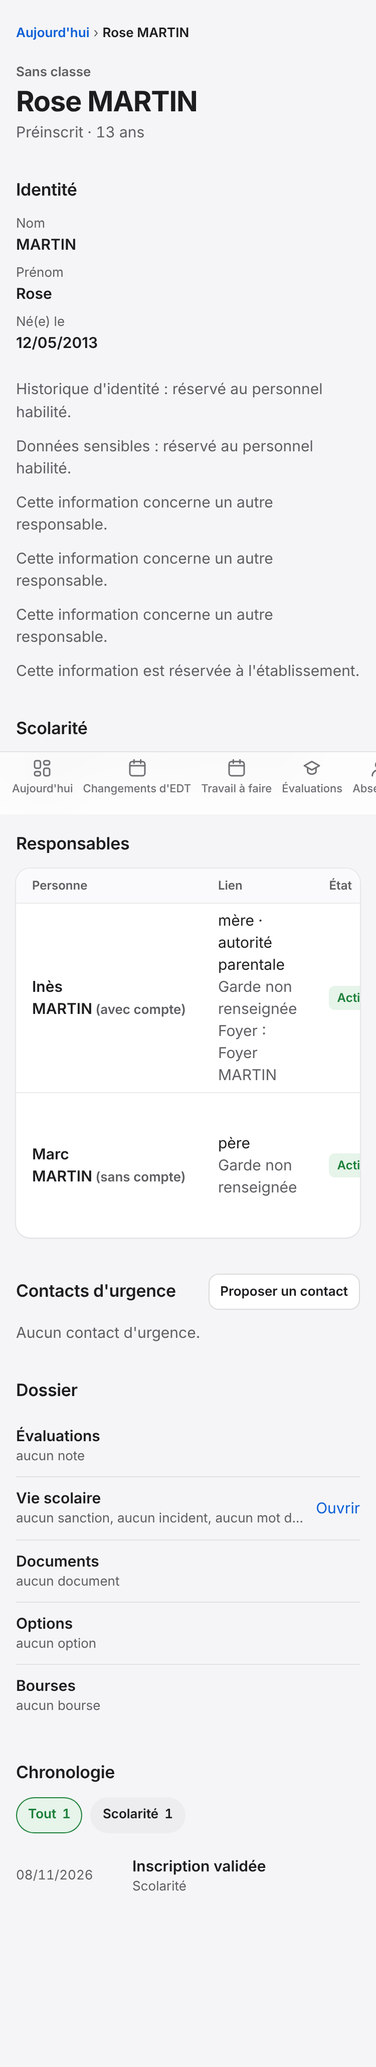
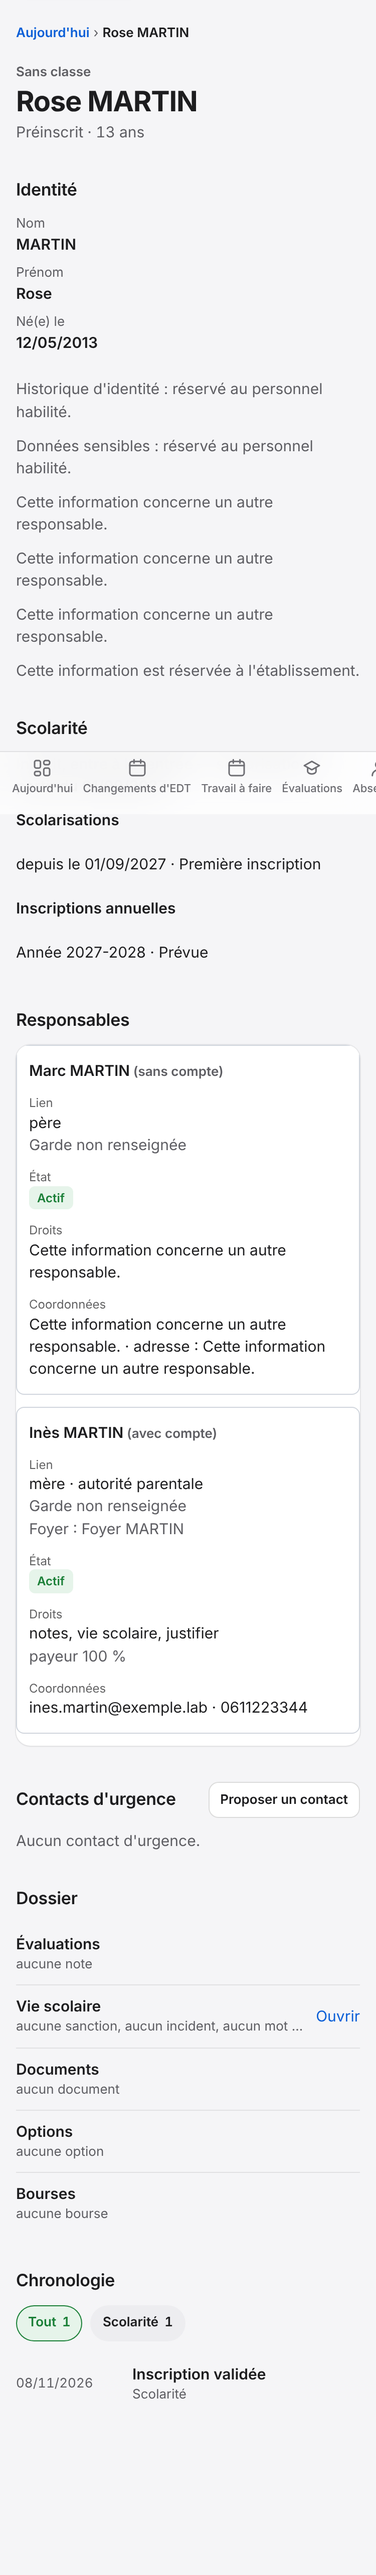
Démo P1 : rejeu navigateur, captures mises à jour, matrice de séparation (scolarité lue par la famille), formatage des paquets web, DEMO_P1.md
Claude-Session: https://claude.ai/code/session_01KZCbFFDAH4c2T5ig1dPYgi

diff --git a/docs/recette/demo_p1/scripts/demo_p1.js b/docs/recette/demo_p1/scripts/demo_p1.js
@@ -89,8 +89,6 @@ async function dossierOuvert(p) {
   await shot(p, '09-direction-preparer-annee');
   await p.getByRole('button', { name: 'Préparer', exact: true }).click(); await p.waitForTimeout(2500);
   await shot(p, '10-direction-annee-preparee');
-  await p.goto(`${BASE}/web`, { waitUntil: 'networkidle' }); await p.waitForTimeout(3000);
-  await shot(p, '11a-direction-accueil-protections-a-confirmer'); // n° 4 : tableau de bord
   await p.goto(`${BASE}/web/direction/protections`, { waitUntil: 'networkidle' }); await p.waitForTimeout(2500);
   await shot(p, '11-direction-protections'); await b.close();
 
@@ -99,6 +97,12 @@ async function dossierOuvert(p) {
   await p.locator('#ins-val-verifie').check();
   await p.getByRole('button', { name: "Valider l'inscription" }).click(); await p.waitForTimeout(2500);
   await shot(p, '13-secretariat-inscription-validee'); await b.close();
+  // n° 4 : la personne (Marc) existe depuis la validation ; sa mention « ne pas solliciter » est à confirmer.
+  ({ b, p } = await ouvrir()); await connecter(p, persona('direction'));
+  await p.goto(`${BASE}/web`, { waitUntil: 'networkidle' }); await p.waitForTimeout(3000);
+  await shot(p, '13b-direction-accueil-protections-a-confirmer');
+  await p.goto(`${BASE}/web/direction/protections`, { waitUntil: 'networkidle' }); await p.waitForTimeout(2500);
+  await shot(p, '13c-direction-protections-apres-validation'); await b.close();
 
   // ---- 4. Mère : invitation, fiche ---------------------------------------------------------------
   await new Promise(r => setTimeout(r, 12000)); // tâches de fond : invitation de la mère

diff --git a/ent-rust/web/crates/ent-web-server/tests/demo_p1.rs b/ent-rust/web/crates/ent-web-server/tests/demo_p1.rs
@@ -279,10 +279,18 @@ async fn admission_jusqu_a_la_fiche_et_cloisonnement() {
     // (direction et secrétariat), sans référence ni adresse.
     for qui in [&direction, &secretariat] {
         let f = qui.fiche_dossier(eleve).await.expect("fiche du personnel");
-        assert_eq!(f.protections.len(), 1, "une seule mention : {:?}", f.protections);
+        assert_eq!(
+            f.protections.len(),
+            1,
+            "une seule mention : {:?}",
+            f.protections
+        );
         assert!(!f.protections[0].confirmee);
     }
-    assert!(prof.fiche_dossier(eleve).await.is_err(), "le professeur sans classe n'ouvre rien");
+    assert!(
+        prof.fiche_dossier(eleve).await.is_err(),
+        "le professeur sans classe n'ouvre rien"
+    );
     assert!(!fiche.responsables.is_empty());
     let suivi = direction.dossier_inscription(d.id).await.unwrap();
     let inv2 = suivi
@@ -391,18 +399,30 @@ async fn la_famille_lit_la_scolarite_de_son_enfant() {
 
     // Contrôle positif : le personnel lit, la mère aussi (même statut), sans le réservé au personnel.
     let personnel_vu = direction.scolarite_eleve(harry).await.expect("direction");
-    let famille_vue = lily.scolarite_eleve(harry).await.expect("la mère lit la scolarité");
+    let famille_vue = lily
+        .scolarite_eleve(harry)
+        .await
+        .expect("la mère lit la scolarité");
     assert_eq!(famille_vue.statut, personnel_vu.statut);
-    assert_eq!(famille_vue.scolarisations.len(), personnel_vu.scolarisations.len());
+    assert_eq!(
+        famille_vue.scolarisations.len(),
+        personnel_vu.scolarisations.len()
+    );
     for s in &famille_vue.scolarisations {
         assert!(s.motif_sortie.is_none() && s.motif_sortie_libre.is_none());
         assert!(s.exeat_document_id.is_none());
         assert!(s.destination.uai.is_none() && s.destination.libelle.is_none());
         assert!(s.origine.uai.is_none() && s.origine.libelle.is_none());
     }
-    assert!(famille_vue.inscriptions.iter().all(|i| i.decision_passage.is_none()));
+    assert!(famille_vue
+        .inscriptions
+        .iter()
+        .all(|i| i.decision_passage.is_none()));
     // Le libellé de l'année est fourni (le référentiel des années n'est pas ouvert aux familles).
-    assert!(famille_vue.inscriptions.iter().all(|i| i.annee_libelle.is_some()));
+    assert!(famille_vue
+        .inscriptions
+        .iter()
+        .all(|i| i.annee_libelle.is_some()));
 
     // L'INE vient de la fiche (groupe G3, ouvert aux familles pour leur enfant).
     let ine_famille = lily.fiche_dossier(harry).await.expect("fiche famille").ine;
@@ -411,7 +431,11 @@ async fn la_famille_lit_la_scolarite_de_son_enfant() {
 
     // Autre famille, élève : refus.
     assert!(refuse(narcissa.scolarite_eleve(harry).await));
-    if let Some(p) = l.personas.iter().find(|p| p.role == "eleve" && p.label.contains("Harry")) {
+    if let Some(p) = l
+        .personas
+        .iter()
+        .find(|p| p.role == "eleve" && p.label.contains("Harry"))
+    {
         let eleve = client_de(&base, &l, &p.email).await;
         assert!(refuse(eleve.scolarite_eleve(harry).await));
     }
@@ -450,5 +474,8 @@ async fn la_famille_lit_la_scolarite_de_son_enfant() {
         .await
         .expect("suspension");
     assert!(refuse(lily.scolarite_eleve(harry).await));
-    direction.retablir_lien(mere.lien_id).await.expect("rétablissement");
+    direction
+        .retablir_lien(mere.lien_id)
+        .await
+        .expect("rétablissement");
 }

diff --git a/ent-rust/web/crates/ent-web-app/src/modules/dossier/modele.rs b/ent-rust/web/crates/ent-web-app/src/modules/dossier/modele.rs
@@ -17,9 +17,15 @@ pub const ACTION_PAYEURS: &str = "payeurs.definir";
 /// Texte de l'alerte « ne pas solliciter » d'une fiche (personnel).
 pub fn libelle_protection(p: &ent_web_api::ProtectionFicheDto) -> String {
     if p.confirmee {
-        format!("{} : ne pas solliciter (confirmé par la direction)", p.designation)
+        format!(
+            "{} : ne pas solliciter (confirmé par la direction)",
+            p.designation
+        )
     } else {
-        format!("{} : ne pas solliciter (déclaré, à confirmer par la direction)", p.designation)
+        format!(
+            "{} : ne pas solliciter (déclaré, à confirmer par la direction)",
+            p.designation
+        )
     }
 }
 
@@ -32,10 +38,18 @@ pub fn libelles_foyers(
     let mut base: HashMap<uuid::Uuid, (String, Vec<String>)> = HashMap::new();
     for r in responsables {
         if let Some(id) = r.foyer_id {
-            let e = base
-                .entry(id)
-                .or_insert_with(|| (r.foyer_libelle.clone().unwrap_or_else(|| "Foyer".into()), Vec::new()));
-            let nom = r.personne.prenom.clone().filter(|p| !p.trim().is_empty()).unwrap_or_else(|| r.personne.nom.clone());
+            let e = base.entry(id).or_insert_with(|| {
+                (
+                    r.foyer_libelle.clone().unwrap_or_else(|| "Foyer".into()),
+                    Vec::new(),
+                )
+            });
+            let nom = r
+                .personne
+                .prenom
+                .clone()
+                .filter(|p| !p.trim().is_empty())
+                .unwrap_or_else(|| r.personne.nom.clone());
             if !e.1.contains(&nom) {
                 e.1.push(nom);
             }
@@ -48,7 +62,11 @@ pub fn libelles_foyers(
     base.into_iter()
         .map(|(id, (l, noms))| {
             let doublon = compte.get(&l).copied().unwrap_or(0) > 1;
-            let texte = if doublon && !noms.is_empty() { format!("{l} ({})", noms.join(", ")) } else { l };
+            let texte = if doublon && !noms.is_empty() {
+                format!("{l} ({})", noms.join(", "))
+            } else {
+                l
+            };
             (id, texte)
         })
         .collect()
@@ -591,12 +609,19 @@ mod tests {
         assert_eq!(l[&Uuid::from_u128(10)], "Foyer MARTIN (Inès)");
         assert_eq!(l[&Uuid::from_u128(11)], "Foyer MARTIN (Marc)");
         // Un foyer unique garde son libellé.
-        assert_eq!(libelles_foyers(&[mere])[&Uuid::from_u128(10)], "Foyer MARTIN");
+        assert_eq!(
+            libelles_foyers(&[mere])[&Uuid::from_u128(10)],
+            "Foyer MARTIN"
+        );
     }
 
     #[test]
     fn alerte_ne_pas_solliciter_dit_l_etat() {
-        let mut p = ent_web_api::ProtectionFicheDto { personne_id: Uuid::from_u128(1), designation: "Marc Martin".into(), confirmee: false };
+        let mut p = ent_web_api::ProtectionFicheDto {
+            personne_id: Uuid::from_u128(1),
+            designation: "Marc Martin".into(),
+            confirmee: false,
+        };
         assert!(libelle_protection(&p).contains("à confirmer"));
         p.confirmee = true;
         assert!(libelle_protection(&p).contains("confirmé"));

diff --git a/ent-rust/web/crates/ent-web-app/src/modules/inscriptions/mod.rs b/ent-rust/web/crates/ent-web-app/src/modules/inscriptions/mod.rs
@@ -23,8 +23,8 @@ use ent_web_api::types_inscriptions::{
 };
 use ent_web_api::ApiError;
 use ent_web_ui::{
-    use_notifications, AccesRefuse, Alerte, Badge, Bouton, Case, ChampTexte, Dialogue, EnTetePage, EtatVide,
-    Niveau, Selection, Squelette, Taille, TonEtat, Variante, ZoneTexte,
+    use_notifications, AccesRefuse, Alerte, Badge, Bouton, Case, ChampTexte, Dialogue, EnTetePage,
+    EtatVide, Niveau, Selection, Squelette, Taille, TonEtat, Variante, ZoneTexte,
 };
 use leptos::prelude::*;
 use leptos::task::spawn_local;
@@ -34,9 +34,8 @@ use uuid::Uuid;
 use crate::noyau::erreurs::ErreurChargement;
 use crate::noyau::{reconnexion, session};
 use modele::{
-    piece_a_decider,
     libelle_nature, libelle_regime, libelle_statut, libelle_statut_campagne, niveaux_depuis_texte,
-    peut, pieces_depuis_texte, ton_statut, REGIMES,
+    peut, piece_a_decider, pieces_depuis_texte, ton_statut, REGIMES,
 };
 
 /// Message d'échec d'une écriture ; une session perdue ouvre la reconnexion.
@@ -89,18 +88,33 @@ fn ListeCampagnes(
     let confirmer = RwSignal::new(false);
     let cible = RwSignal::new(None::<(Uuid, bool, String)>);
     let appliquer = Callback::new(move |_| {
-        let Some((id, ouverte, _)) = cible.get_untracked() else { return };
+        let Some((id, ouverte, _)) = cible.get_untracked() else {
+            return;
+        };
         confirmer.set(false);
         spawn_local(async move {
             let client = session::client();
             let r = if ouverte {
-                client.fermer_campagne(id).await.map(|_| "Campagne fermée.".to_string())
+                client
+                    .fermer_campagne(id)
+                    .await
+                    .map(|_| "Campagne fermée.".to_string())
             } else {
-                client.ouvrir_campagne(id).await.map(|o| format!("Campagne ouverte ({} dossiers préparés).", o.dossiers_prepares))
+                client.ouvrir_campagne(id).await.map(|o| {
+                    format!(
+                        "Campagne ouverte ({} dossiers préparés).",
+                        o.dossiers_prepares
+                    )
+                })
             };
             match r {
-                Ok(m) => { notifications.succes(m); recharger.run(()); }
-                Err(e) => { notifications.info(message_echec(e)); }
+                Ok(m) => {
+                    notifications.succes(m);
+                    recharger.run(());
+                }
+                Err(e) => {
+                    notifications.info(message_echec(e));
+                }
             }
         })
     });

diff --git a/ent-rust/crates/ent-api/tests/separation.rs b/ent-rust/crates/ent-api/tests/separation.rs
@@ -293,8 +293,11 @@ fn specs_domaine_eleve_dossier() -> Vec<Spec> {
                 Some(r#"{"nouveau_badge":"SEPARATION-BADGE"}"#)),
             // Socle 2 (E4) : scolarité (G1 : `eleves.lire`, Admin/Direction/Administratif) et
             // commandes d'écriture, toutes refusées sur l'élève d'un autre établissement.
+            // Démo P1 n° 3 : le responsable légal (lien actif) lit la scolarité de SON enfant,
+            // minimisée ; jamais celle d'un autre élève (liste « non liée » inchangée).
             lire("scolarite", "/eleves/{eleve}/scolarite",
-                &[Admin, Direction, Administratif], &[Admin, Direction, Administratif]),
+                &[Admin, Direction, Administratif, Parent, ParentAutreFoyer, ParentSansDrapeaux],
+                &[Admin, Direction, Administratif]),
             ecrire_sur_b("scolarisation-ouverture-sur-B", "POST", "/eleves/{eleve}/scolarisations",
                 Some(r#"{"date_entree":"{jour}","motif":"reprise"}"#)),
             ecrire_sur_b("scolarisation-reintegration-sur-B", "POST", "/eleves/{eleve}/scolarisations/reintegrer",

diff --git a/ent-rust/web/crates/ent-web-api/src/lib.rs b/ent-rust/web/crates/ent-web-api/src/lib.rs
@@ -83,7 +83,8 @@ pub use ent_types::dossier::{
     AlertesProtectionDto, ConfirmationGuichetDto, ContactBody, ContactUrgenceDto,
     EntreeChronologieDto, FicheEleveDto, InterdictionDto, LienBody, LienEnAttenteDto,
     LienEnAttenteEleveDto, MasquageDto, MonLienEnAttenteDto, PersonneBody, PersonneDto,
-    ProtectionADeclarerDto, ProtectionFicheDto, ReponseLienBody, ResponsableDto, ResumeSectionsDto, SectionsDto,
+    ProtectionADeclarerDto, ProtectionFicheDto, ReponseLienBody, ResponsableDto, ResumeSectionsDto,
+    SectionsDto,
 };
 pub use ent_types::edt::EdtCreneauDto as Creneau;
 /// Types des finances (S2-9), partagés avec `ent-api`.

diff --git a/ent-rust/web/crates/ent-web-app/src/modules/accueil/mod.rs b/ent-rust/web/crates/ent-web-app/src/modules/accueil/mod.rs
@@ -279,7 +279,8 @@ fn TuileAnnonces(annonces: LocalResource<Result<Vec<Annonce>, ApiError>>) -> imp
 #[component]
 fn TuileProtections() -> impl IntoView {
     let alertes = LocalResource::new(|| async { session::client().alertes_protection().await });
-    let action = ViewFn::from(|| view! { <a href=navigation::PROTECTIONS>"Traiter les protections"</a> });
+    let action =
+        ViewFn::from(|| view! { <a href=navigation::PROTECTIONS>"Traiter les protections"</a> });
     view! {
         <Tuile id="protections" titre="Protections à confirmer" largeur=Largeur::Six action=action>
             {move || match alertes.get() {

diff --git a/docs/recette/DEMO_P1.md b/docs/recette/DEMO_P1.md
@@ -1,6 +1,6 @@
 # Démo P1 — le parcours joué dans un navigateur
 
-**Date :** 2026-11-08 — **Branche :** `ent-demo-p1-ecrans` (base `ent-recette-2-correctifs`) — **Statut :** écrans corrigés et joués, **à relire par Florian**.
+**Date :** 2026-11-08 — **Branche :** `ent-demo-p1-ecrans` (base `ent-recette-2-correctifs`) — **Statut :** écrans corrigés et rejoués (2026-11-08, 2ᵉ passe : points 3, 4, 5, 8, 9, 10 du §4), **à relire par Florian**.
 **Ce que c'est :** la recette 2 avait tout joué par l'API ; ici le même parcours est joué **à l'écran** (Chromium via Playwright, `deviceScaleFactor` 2, bureau 1280 px et mobile 375 px), sur le serveur Leptos réel (`ent-web-server`, compilé avec `--bin-features labo`), base PostgreSQL locale `ent_ci_test_a`, `ENT_ENV=lab ENT_ALLOW_LABO=1`, données de labo fictives. Aucune base ni secret de production ; Next.js non touché ; aucune migration.
 **Rejouer :** `docs/recette/demo_p1/scripts/` (`reset_labo.sh` puis `NODE_PATH=$(npm root -g) node demo_p1.js`). Les captures citées ci-dessous sont dans `docs/recette/demo_p1/`.
 
@@ -41,13 +41,14 @@ Légende : ✅ joué et conforme · ⚠ joué avec réserve (voir §4).
 ### Étape 3 — Instruire, admettre, valider ✅
 - Secrétariat : instruction (`06`, les deux réserves sont visibles, jamais l'adresse), pièces acceptées, passage en instruction (`07`).
 - Direction : décision « admis » (`08`) ; le secrétariat n'a pas ce bouton. La direction **prépare l'année 2027-2028** (`/web/referentiel/annees`, `09`, `10`) : sans elle, la scolarisation de l'élève attend la préparation (limite connue de RP2-10).
-- Direction : écran « Protections » : la mention « ne pas solliciter » de Marc attend sa confirmation, l'adresse d'Inès est protégée (`11`).
+- Direction : écran « Protections » avant validation : rien à traiter, car la personne n'existe pas encore (`11`). **Après la validation**, la tuile « Protections à confirmer » de l'accueil de la direction (`13b`) et l'écran (`13c`) listent Marc (« ne pas solliciter » à confirmer) et l'adresse protégée d'Inès.
+- Secrétariat : « Ouvrir » la campagne demande confirmation (`02a`) ; une fois une pièce acceptée ou refusée, ses boutons disparaissent (`07`).
 - **Secrétariat valide** (RP2-11) : rapprochement, case de vérification, validation (`12`, `13`). Marc ne reçoit **aucune invitation** ; la mère reçoit la sienne, l'accepte (`14`).
 - L'élève apparaît à la scolarité : **« Inscrit, entre à la rentrée — scolarisation à partir du 01/09/2027 · Première inscription · Année 2027-2028 · Prévue »** (`16`, `17`).
 
 ### Étape 4 — Fiche 360° et cloisonnement ✅
-- **Direction** (`16`) et **secrétariat** (`17`) : identité, scolarité, responsables avec foyer, droits et payeur (100 % Inès), contacts, sections du dossier, actions possibles, chronologie ; le secrétariat voit les groupes de champs fermés expliqués.
-- **Mère** (`15`, `15b` à 375 px) : voit l'élève et ses propres coordonnées ; le père « séparé » n'apparaît que par sa désignation, **coordonnées, adresse et droits remplacés par « Cette information concerne un autre responsable »** ; historique d'identité et données sensibles réservés au personnel.
+- **Direction** (`16`) et **secrétariat** (`17`, `17b` à 375 px en cartes) : alerte « À ne pas solliciter » sur Marc, foyers « Foyer MARTIN (Inès) / (Marc) », identité, scolarité, responsables avec foyer, droits et payeur (100 % Inès), contacts, sections du dossier, actions possibles, chronologie ; le secrétariat voit les groupes de champs fermés expliqués.
+- **Mère** (`15`, `15b` à 375 px) : lit la **Scolarité** de Rose (« Inscrit, entre à la rentrée… Année 2027-2028 · Prévue »), sans l'alerte « ne pas solliciter » ; voit l'élève et ses propres coordonnées ; le père « séparé » n'apparaît que par sa désignation, **coordonnées, adresse et droits remplacés par « Cette information concerne un autre responsable »** ; historique d'identité et données sensibles réservés au personnel.
 - **Professeur sans classe** : « Dossier inaccessible » (`18`).
 - **Professeur d'un seul groupe** (« 4B LV2 allemand », Prof 3) : voit Harry (`19`), **pas Ginny** (`20`).
 - Tests contre le vrai backend : `ent-web-server/tests/demo_p1.rs` (3 tests) : parcours complet (famille → validation par le secrétariat → scolarité `a_venir` + inscription `prevue` → père protégé sans invitation → autre famille et professeur refusés), pages rendues, professeur de groupe.
@@ -62,7 +63,10 @@ Légende : ✅ joué et conforme · ⚠ joué avec réserve (voir §4).
 - `cargo clippy --locked` : `ent-web-ui`, `ent-web-api`, `ent-web-app` (`--features ent-web-app/ssr --all-targets -D warnings`), `ent-web-app` pour `wasm32` (`--features hydrate -D warnings`), `ent-web-server --features labo --all-targets -D warnings` : **sans erreur**.
 - `cargo test --locked -p ent-web-ui -p ent-web-api -p ent-web-app --features ent-web-app/ssr` : **26 + 308 + 14 réussis**.
 - `cargo test --locked -p ent-web-server --features labo -- --test-threads=1` : **non lancé en entier** (chaque binaire de test pèse 3,5 Go, le conteneur a ≈ 38 Go) ; lancés un à un et **verts** : `demo_p1` (3), `inscriptions` (2), `dossier` (2). Les 18 autres fichiers sont à rejouer par la CI GitHub.
-- Formatage : `cargo fmt --manifest-path ent-rust/web/Cargo.toml -p ent-web-app -p ent-web-server -p ent-web-api --check` : OK (jamais `--all`).
+- Formatage : `cargo fmt -p ent-web-ui -p ent-web-api -p ent-web-app -p ent-web-server` appliqué puis vérifié (jamais `--all`) ; backend non reformaté.
+- **2ᵉ passe** : clippy `-D warnings` sans erreur sur `ent-web-ui`, `ent-web-api`, `ent-web-app` (SSR, `--all-targets`, et wasm `--features hydrate`) ; tests 26 + 312 + 14 verts ; `demo_p1` : **4 tests verts** (dont `la_famille_lit_la_scolarite_de_son_enfant`) ; `ent-api` `recette_personas_2` (6) et `separation` (41) verts avec la matrice `scolarite` mise à jour (un parent lit la scolarité de son enfant lié, refusé pour tout autre élève ou établissement) ; tests unitaires `domain-eleve` verts. Clippy du backend (`ent-api`, `ent-db`…) signale des erreurs **déjà présentes** dans des fichiers non touchés (`domain-eleve/scolarite.rs`, `ent-mail`…) : aucune dans les lignes modifiées ; non corrigé ici. `--features ent-api/labo,ent-lab/labo` n'existe pas (la fonctionnalité d'`ent-api` est `labo`).
+- Navigateur : parcours rejoué depuis une base vide après `cargo leptos build --bin-features labo` (outils installés pour l'occasion : `cargo-leptos` 0.3.11, `wasm-bindgen-cli` 0.2.130, cible `wasm32`) ; erreurs de console limitées à des 403/404 attendus (accès refusés des professeurs, sections fermées).
+- Décision à valider : un responsable **sans** droit « voir les notes / la vie scolaire » mais au lien actif lit tout de même la scolarité (statut administratif, comme la fiche) ; un responsable portant « ne pas solliciter » est refusé.
 - Navigateur : parcours complet rejoué **depuis une base vide** par `demo_p1.js` (aucune erreur de console hors 401/403 attendus).
 
 ## 4. Ce qui manque encore pour une démo complète
